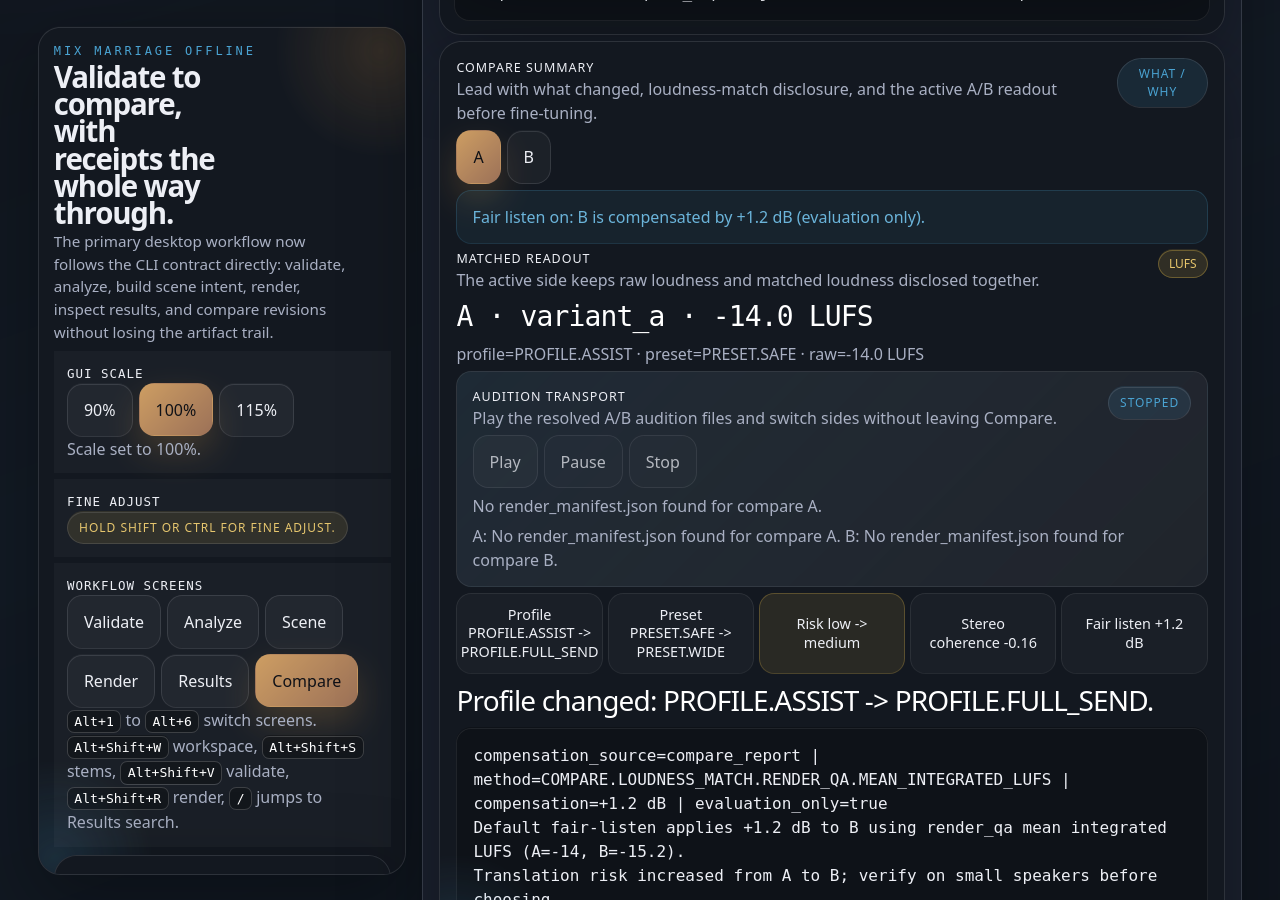
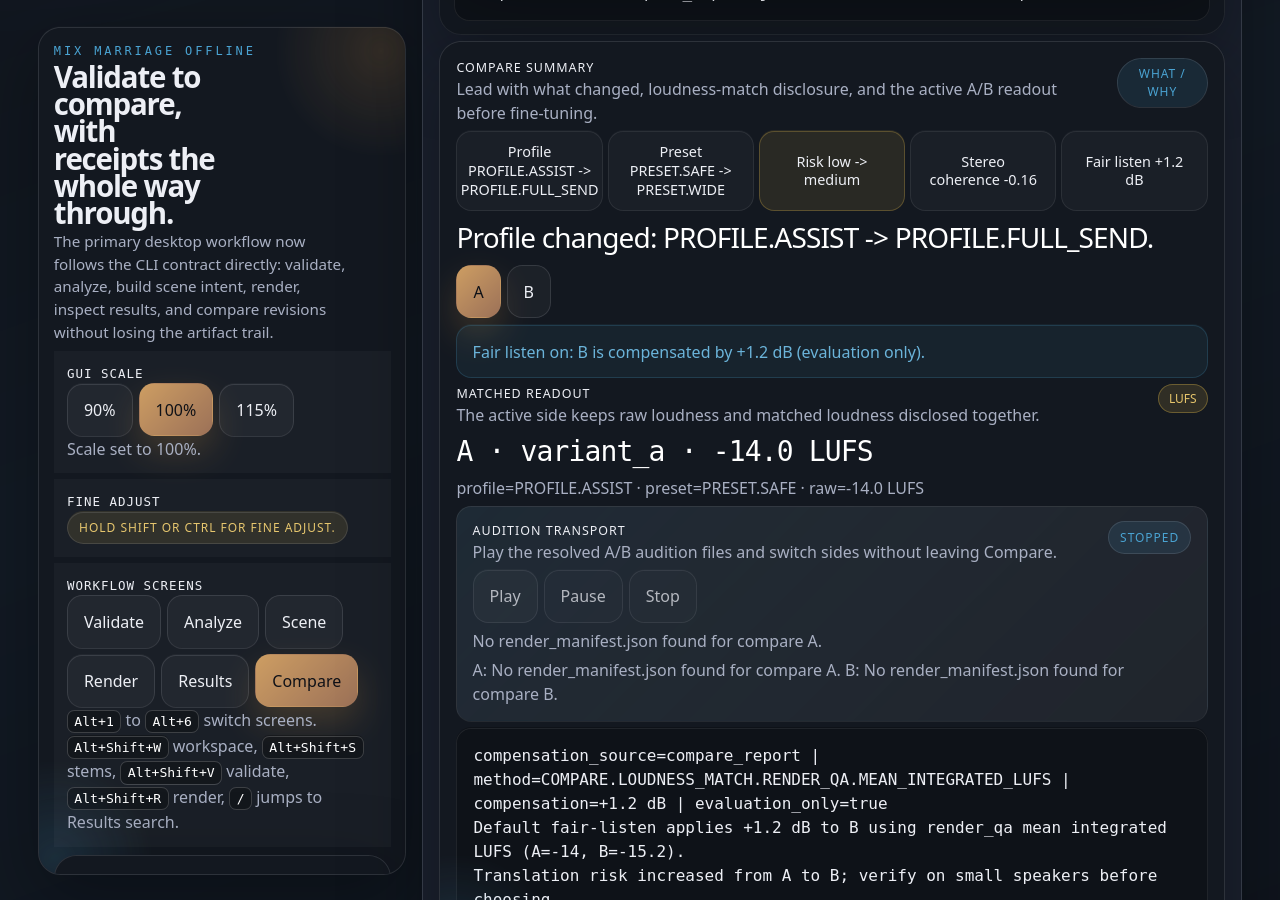
Rebase public versioning and release story to 1.0.0-rc.1
Align all shipped metadata (Python, Tauri, Cargo, manual), changelog,
release workflow, and docs around the first real public release candidate.
Mark older CustomTkinter-era tags as pre-Tauri history and ensure the
GitHub release is published as a prerelease for RC tags.

diff --git a/gui/desktop-tauri/index.html b/gui/desktop-tauri/index.html
@@ -1197,6 +1197,8 @@
                 </div>
               </div>
             </div>
+            <div id="compare-change-summary" class="change-summary-list" aria-live="polite"></div>
+            <p id="compare-summary" class="signal-value">No compare artifact loaded.</p>
             <div class="compare-summary-top">
               <div
                 id="ab-toggle"
@@ -1251,8 +1253,6 @@
                 Uses sibling render-manifest audio outputs when available and applies the current B fair-listen gain only during playback.
               </p>
             </div>
-            <div id="compare-change-summary" class="change-summary-list" aria-live="polite"></div>
-            <p id="compare-summary" class="signal-value">No compare artifact loaded.</p>
             <pre class="stage-output compact-output" id="compare-summary-note">Warnings and notes will appear here.</pre>
           </article>
 

diff --git a/gui/desktop-tauri/src/styles.css b/gui/desktop-tauri/src/styles.css
@@ -1082,6 +1082,27 @@ button:disabled {
   word-break: break-word;
 }
 
+/* Compare left rail: quieter than the active compare content */
+[data-widget-id="widget.compare.inputs"] {
+  border-color: color-mix(in srgb, var(--surface-border) 60%, transparent);
+  gap: calc(var(--space-base) * 0.6);
+}
+
+[data-widget-id="widget.compare.inputs"] > .field-label:first-child {
+  color: var(--theme-text-muted);
+  letter-spacing: 0.14em;
+}
+
+/* Compensation knob: compact so it doesn't dominate the detail area */
+[data-widget-id="widget.compare.compensation_knob"] .knob-surface {
+  width: min(7rem, 100%);
+}
+
+/* JSON preview: cap height when expanded */
+#compare-json-preview {
+  max-height: 20rem;
+}
+
 .scope-grid-line,
 .scope-grid-ring {
   fill: none;

diff --git a/src/mmo/__init__.py b/src/mmo/__init__.py
@@ -1,1 +1,1 @@
-__version__ = "1.1.3"
+__version__ = "1.0.0rc1"

diff --git a/CHANGELOG.md b/CHANGELOG.md
@@ -8,6 +8,14 @@ The format is based on [Keep a Changelog](https://keepachangelog.com/en/1.1.0/).
 
 ## [Unreleased]
 
+## [1.0.0-rc.1] — 2026-03-17
+
+First public release candidate. This build represents the real shipped product:
+a Tauri desktop app with full workflow parity, deterministic scene/render
+contracts, compare reporting, plugin authoring onboarding, and cross-platform
+packaged artifacts. The older `1.0.0`–`1.1.3` tags below were internal
+CustomTkinter-era builds that no longer represent the intended public baseline.
+
 ### Added
 
 - **Plugin authoring starter pack and onboarding path:**
@@ -1211,6 +1219,23 @@ The format is based on [Keep a Changelog](https://keepachangelog.com/en/1.1.0/).
   `SFX5`) and avoid `ISSUE.VALIDATION.UNKNOWN_ROLE` false positives. Added
   generic synth recognition via `ROLE.SYNTH.OTHER` (`synth`/`synth01`) and
   `SubDrop` recognition under `ROLE.FX.IMPACT`.
+
+### Known limits in rc.1
+
+- Human fresh-install signoff on release-candidate packaged artifacts is not yet
+  complete across all three platforms (Windows, macOS, Linux).
+- Optional post-v1 GUI maturity items (macro controls, mood selectors, safe-mode
+  toggle, reference matcher, history scrub, soundstage views) are tracked but not
+  shipping in this RC.
+- Compare works best when both sides come from finished MMO workspaces.
+- Real audio workflows depend on FFmpeg/ffprobe; MMO stops and tells you if they
+  are missing.
+
+---
+
+**Pre-Tauri history.** The entries below document the older CustomTkinter-based
+desktop line (`1.0.0`–`1.1.3`). Those builds are superseded by the Tauri
+desktop app shipped in `1.0.0-rc.1` above.
 
 ## [1.1.3] — 2026-03-02
 

diff --git a/docs/STATUS.md b/docs/STATUS.md
@@ -1,6 +1,6 @@
 # Project Status
 
-Last updated: 2026-03-16
+Last updated: 2026-03-17
 
 This is the single-page milestone checklist for current delivery phases.
 
@@ -74,7 +74,7 @@ Definition of done:
 
 ## Release Surface
 
-State: `in_progress`
+State: `in_progress` — version `1.0.0-rc.1` tagged as first public release candidate
 
 Definition of done:
 
@@ -84,6 +84,7 @@ Definition of done:
       smoke checks.
 - [x] Standalone CLI binaries build on Windows, macOS, and Linux without a
       legacy Python GUI dependency.
+- [x] All shipped metadata surfaces agree on `1.0.0-rc.1`.
 - [ ] Human fresh-install signoff on release-candidate packaged artifacts is
       complete across Windows, macOS, and Linux.
 
@@ -111,6 +112,6 @@ Definition of done:
   macOS, and Linux, launch the packaged app, and verify the bundled sidecar
   doctor plus validate/analyze/scene/render against a tiny fixture.
 - Release-candidate hardening now includes a docs reality pass and clearer
-  musician-facing failure guidance, but the final manual fresh-install signoff
-  on packaged artifacts remains the last release-surface blocker before a v1
-  tag.
+  musician-facing failure guidance. `1.0.0-rc.1` is tagged as the first public
+  release candidate; final manual fresh-install signoff on packaged artifacts
+  remains the last release-surface blocker before a stable `1.0.0` tag.

diff --git a/README.md b/README.md
@@ -116,7 +116,14 @@ If FFmpeg tools are not on `PATH`, set:
 - `MMO_FFMPEG_PATH=/path/to/ffmpeg`
 - `MMO_FFPROBE_PATH=/path/to/ffprobe`
 
-## Known Limits In v1
+## Release Status
+
+The current public release is `1.0.0-rc.1` — the first real release candidate
+of the Tauri-based desktop app. It is stable enough for public testing but is
+not yet the final `1.0.0`. Older GitHub tags (`1.0.0`–`1.1.3`) represent the
+retired CustomTkinter-based line and are no longer the intended product.
+
+## Known Limits In rc.1
 
 - MMO is not a DAW plugin and it does not replace your creative judgement.
 - MMO does not claim to replace licensed Dolby or proprietary Atmos renderers.
@@ -124,9 +131,8 @@ If FFmpeg tools are not on `PATH`, set:
   missing, MMO will stop and tell you instead of guessing.
 - `Compare` works best when both sides come from finished MMO workspaces or
   from the matching `report.json` files inside those workspaces.
-- Automated packaged smoke runs already cover Windows, macOS, and Linux in CI.
-  Final human fresh-install signoff on release-candidate artifacts remains part
-  of the ship checklist before a v1 tag.
+- Human fresh-install signoff on release-candidate packaged artifacts is still
+  in progress across Windows, macOS, and Linux.
 
 ## Documentation
 

diff --git a/docs/06-roadmap.md b/docs/06-roadmap.md
@@ -7,9 +7,10 @@ This roadmap is split into two tracks:
 
 ## NOW
 
-Only true v1 completion blockers belong here. The remaining blocker is small
-and explicit: final human fresh-install signoff on the release-candidate
-desktop artifacts. Optional GUI maturity and preset polish items live in
+Only true v1 completion blockers belong here. `1.0.0-rc.1` is tagged as the
+first public release candidate. The remaining blocker before stable `1.0.0` is
+human fresh-install signoff on the release-candidate desktop artifacts.
+Optional GUI maturity and preset polish items live in
 `PROJECT_WHEN_COMPLETE.md` section 9 and in `LATER` below.
 
 ### Release Surface
@@ -23,7 +24,7 @@ desktop artifacts. Optional GUI maturity and preset polish items live in
 - docs and common failure messages now match the shipped desktop workflow more
   closely
 - remaining blocker: complete one human fresh-install walkthrough on the
-  release-candidate packaged artifacts before tagging v1
+  `1.0.0-rc.1` packaged artifacts before tagging stable `1.0.0`
 
 ### Tauri Workflow Parity
 

diff --git a/docs/manual/10-gui-walkthrough.md b/docs/manual/10-gui-walkthrough.md
@@ -212,6 +212,17 @@ evaluation-only loudness compensation it used for a fair listen.
 Think of this screen as two printed mix notes on one desk: MMO lines them up so
 you can hear and read the differences more fairly.
 
+In loaded compare mode the summary panel follows this visual hierarchy top to
+bottom:
+
+1. **What changed** — objective delta chips and the summary headline
+2. **A/B state and loudness disclosure** — toggle + fair-listen compensation
+   note
+3. **Matched readout and audition transport** — LUFS readout and play controls
+4. **Compensation fine-tune** — knob and numeric input (in the detail row below)
+5. **Raw artifact preview** — collapsible `compare_report.json` (closed by
+   default)
+
 ![Compare screen, loaded loudness-matched state](assets/screenshots/tauri_compare_loaded.png)
 
 ## Recommended order

diff --git a/PROJECT_WHEN_COMPLETE.md b/PROJECT_WHEN_COMPLETE.md
@@ -316,8 +316,8 @@ Note: schema contracts use `schemas/*.schema.json` naming (not
       packaged smoke now accepts both staged `mmo-$TARGET_TRIPLE` names and
       post-bundle bare `mmo` sidecars, and missing-sidecar failures print short
       bundle-directory receipts for faster triage. Remaining RC signoff:
-      complete one human fresh-install walkthrough on the final
-      release-candidate desktop artifacts before tagging v1.
+      complete one human fresh-install walkthrough on the `1.0.0-rc.1`
+      desktop artifacts before tagging stable `1.0.0`.
 
 ### 4.8 UX/CLI is usable for real work
 
